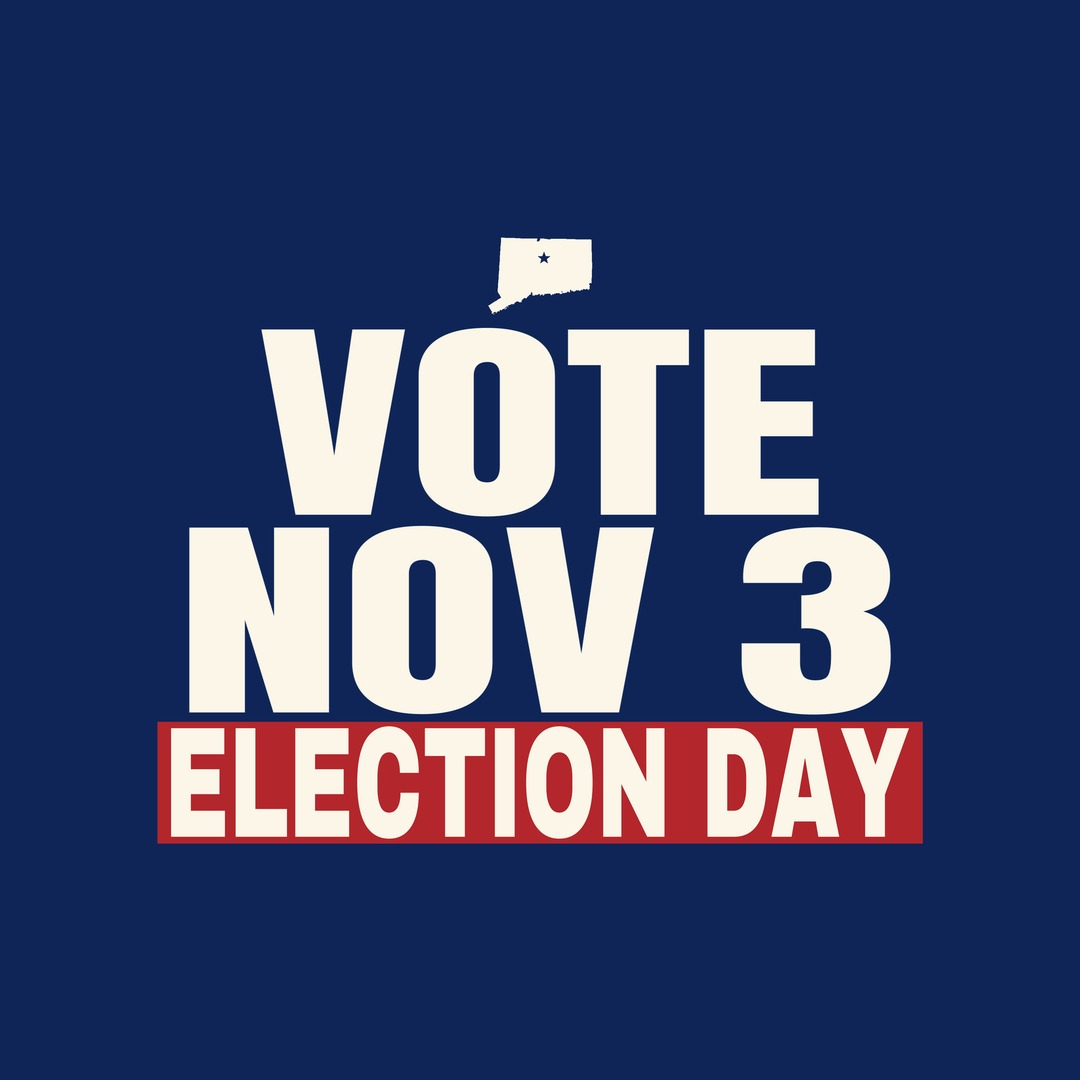
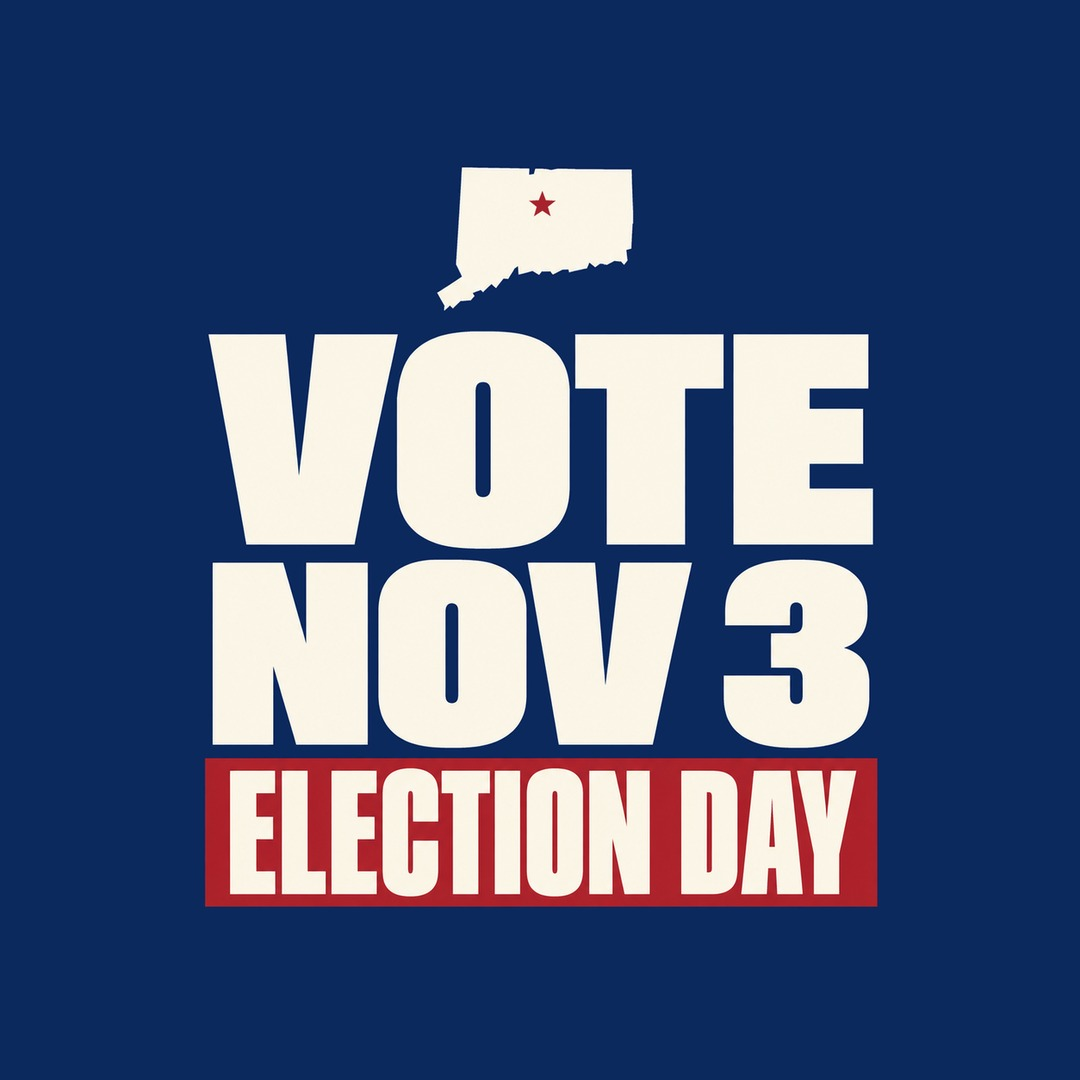
Connecticut: 10 new ready-mades from Codex; retire the earlier set
Claude-Session: https://claude.ai/code/session_01U4jJBSt3CnGjJYrtPzNn5q

Changed region(s): [[0.1222, 0.3056, 0.8556, 0.8556], [0.3972, 0.1528, 0.6111, 0.3056]]

diff --git a/site/index.php b/site/index.php
@@ -83,7 +83,7 @@ function vote_files( $abbr ) {
 
 // The state hero shows one standout ready-made, tilted (October 20, Garrett): the design named here,
 // or the first in the set. Numbers match <abbr>-vote-N.jpg.
-const VOTE_HERO = array( 'MS' => 5, 'MI' => 7, 'ID' => 7, 'NJ' => 5, 'OR' => 5, 'MN' => 6, 'NE' => 6, 'AL' => 6, 'AZ' => 6 );
+const VOTE_HERO = array( 'MS' => 5, 'MI' => 7, 'ID' => 7, 'NJ' => 5, 'OR' => 5, 'MN' => 6, 'NE' => 6, 'AL' => 6, 'AZ' => 6, 'CT' => 7 );
 function vote_hero_file( $abbr ) {
 	$n = VOTE_HERO[ $abbr ] ?? 0;
 	$k = strtolower( $abbr );
